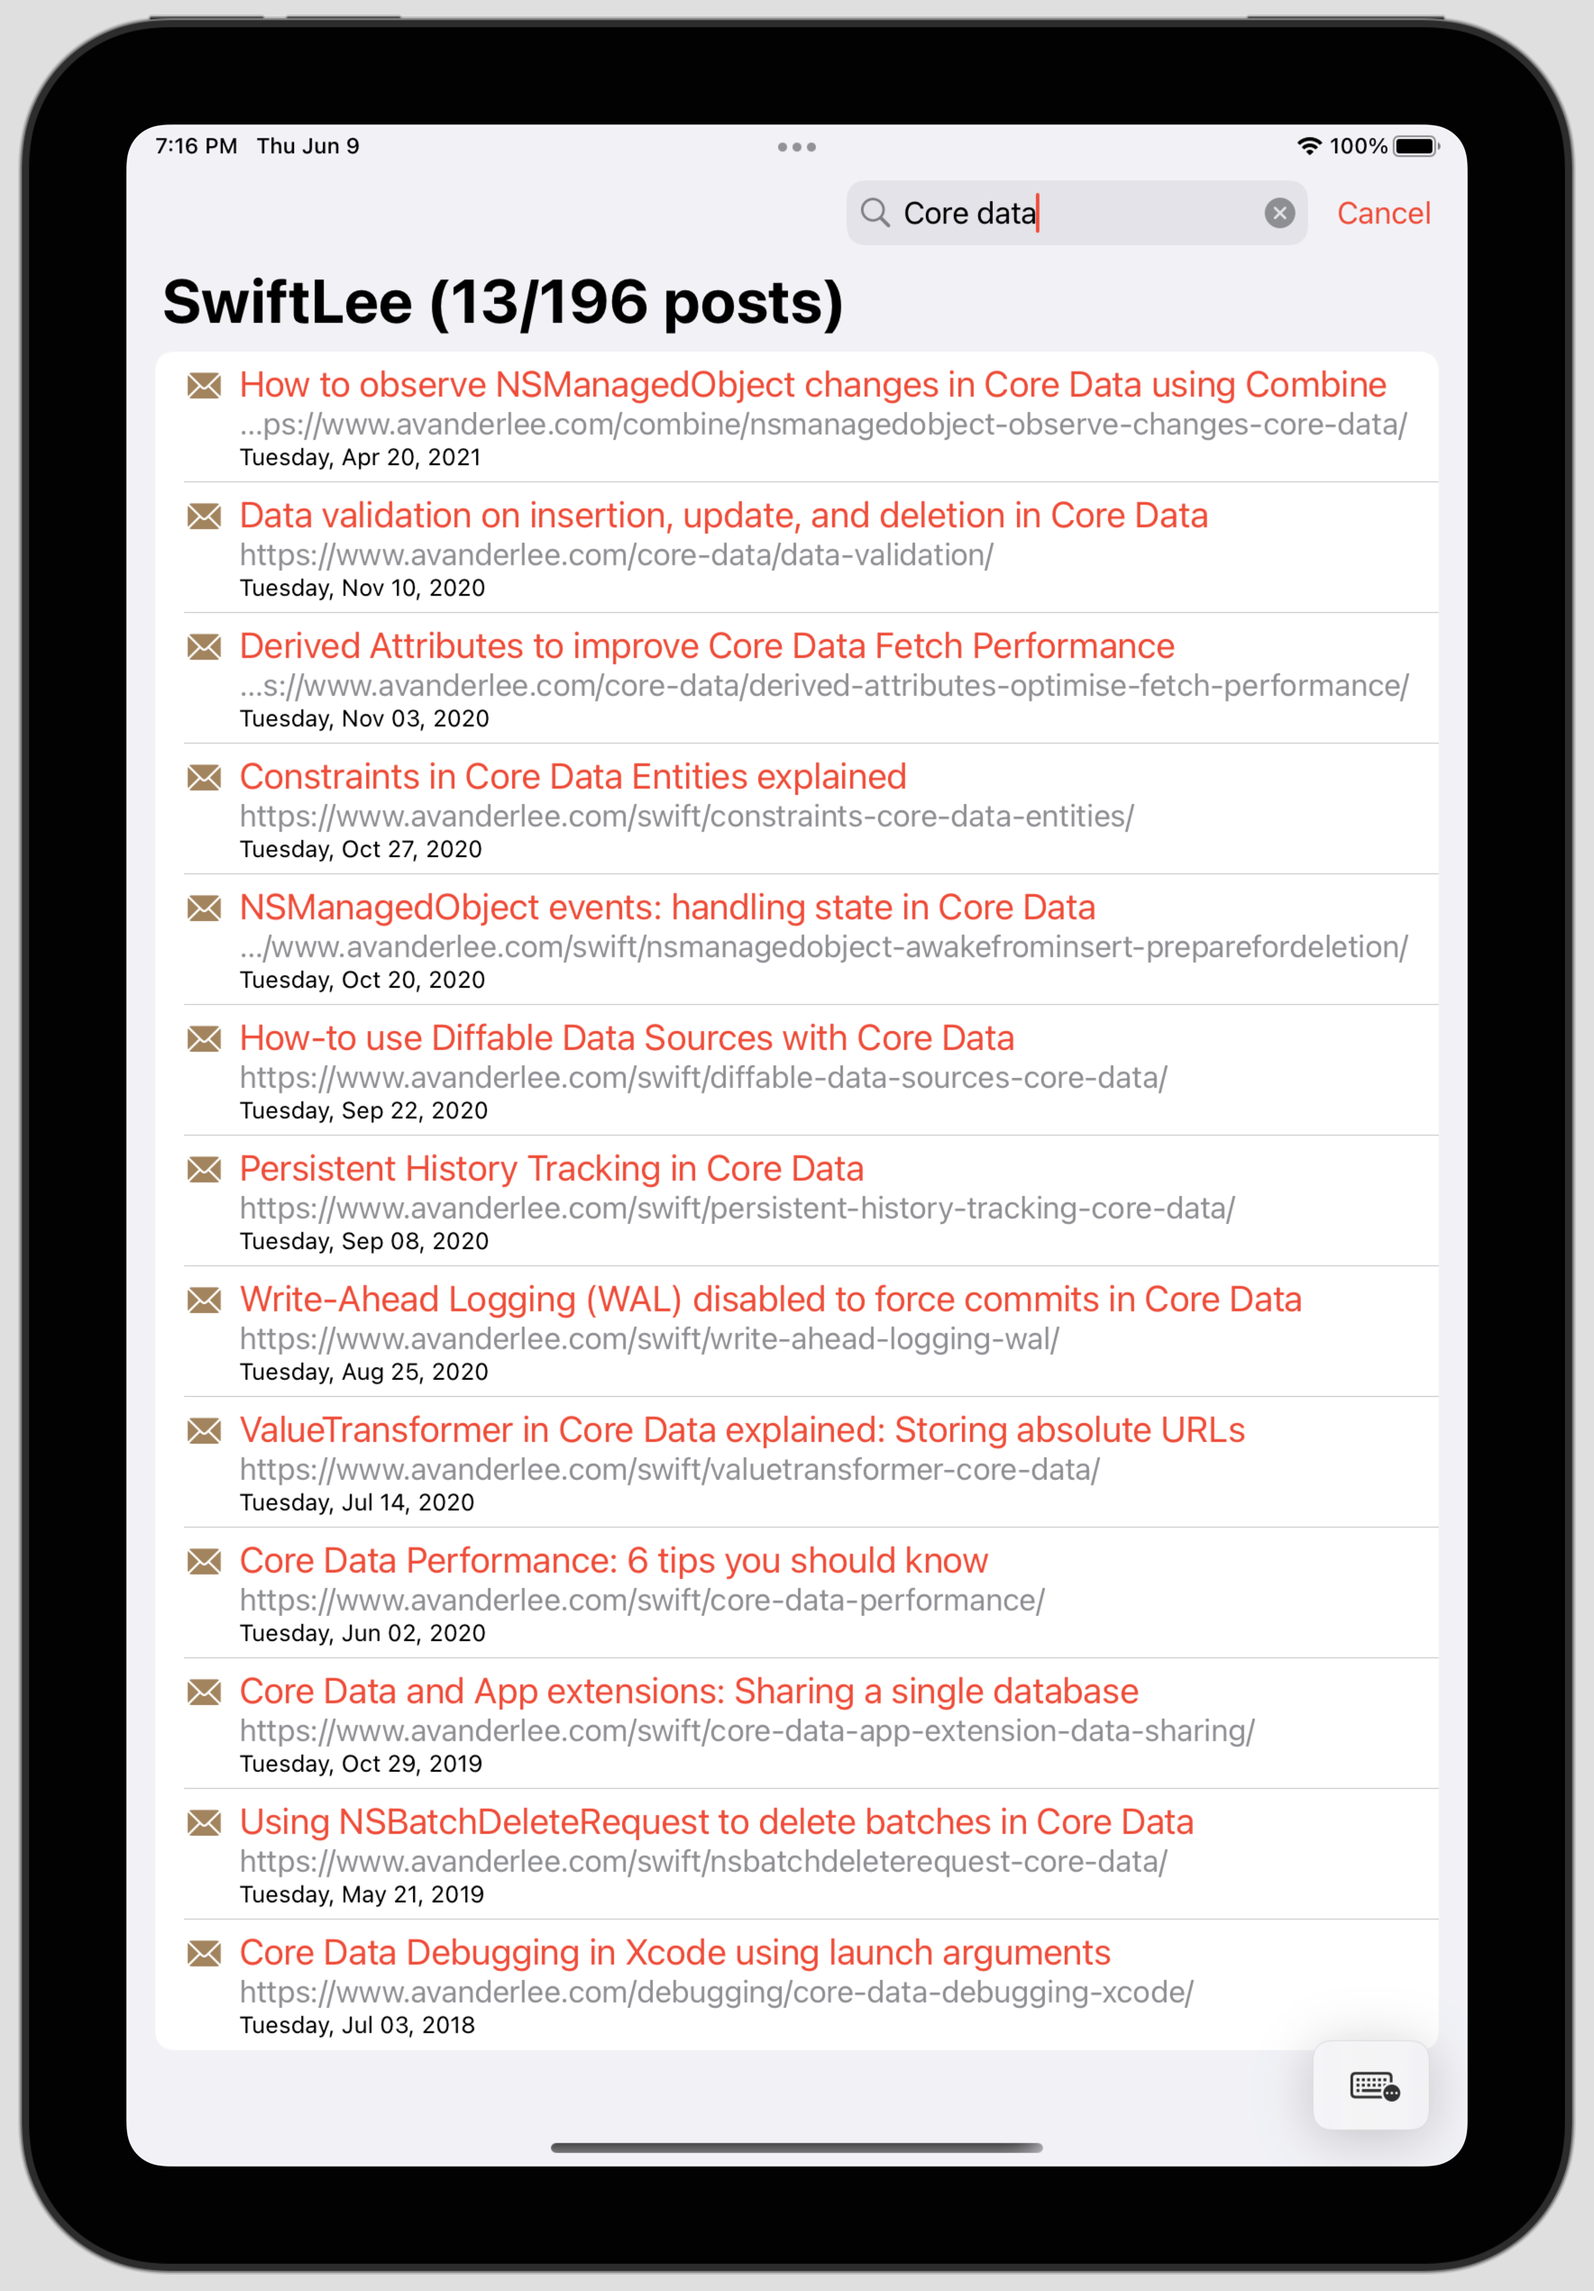
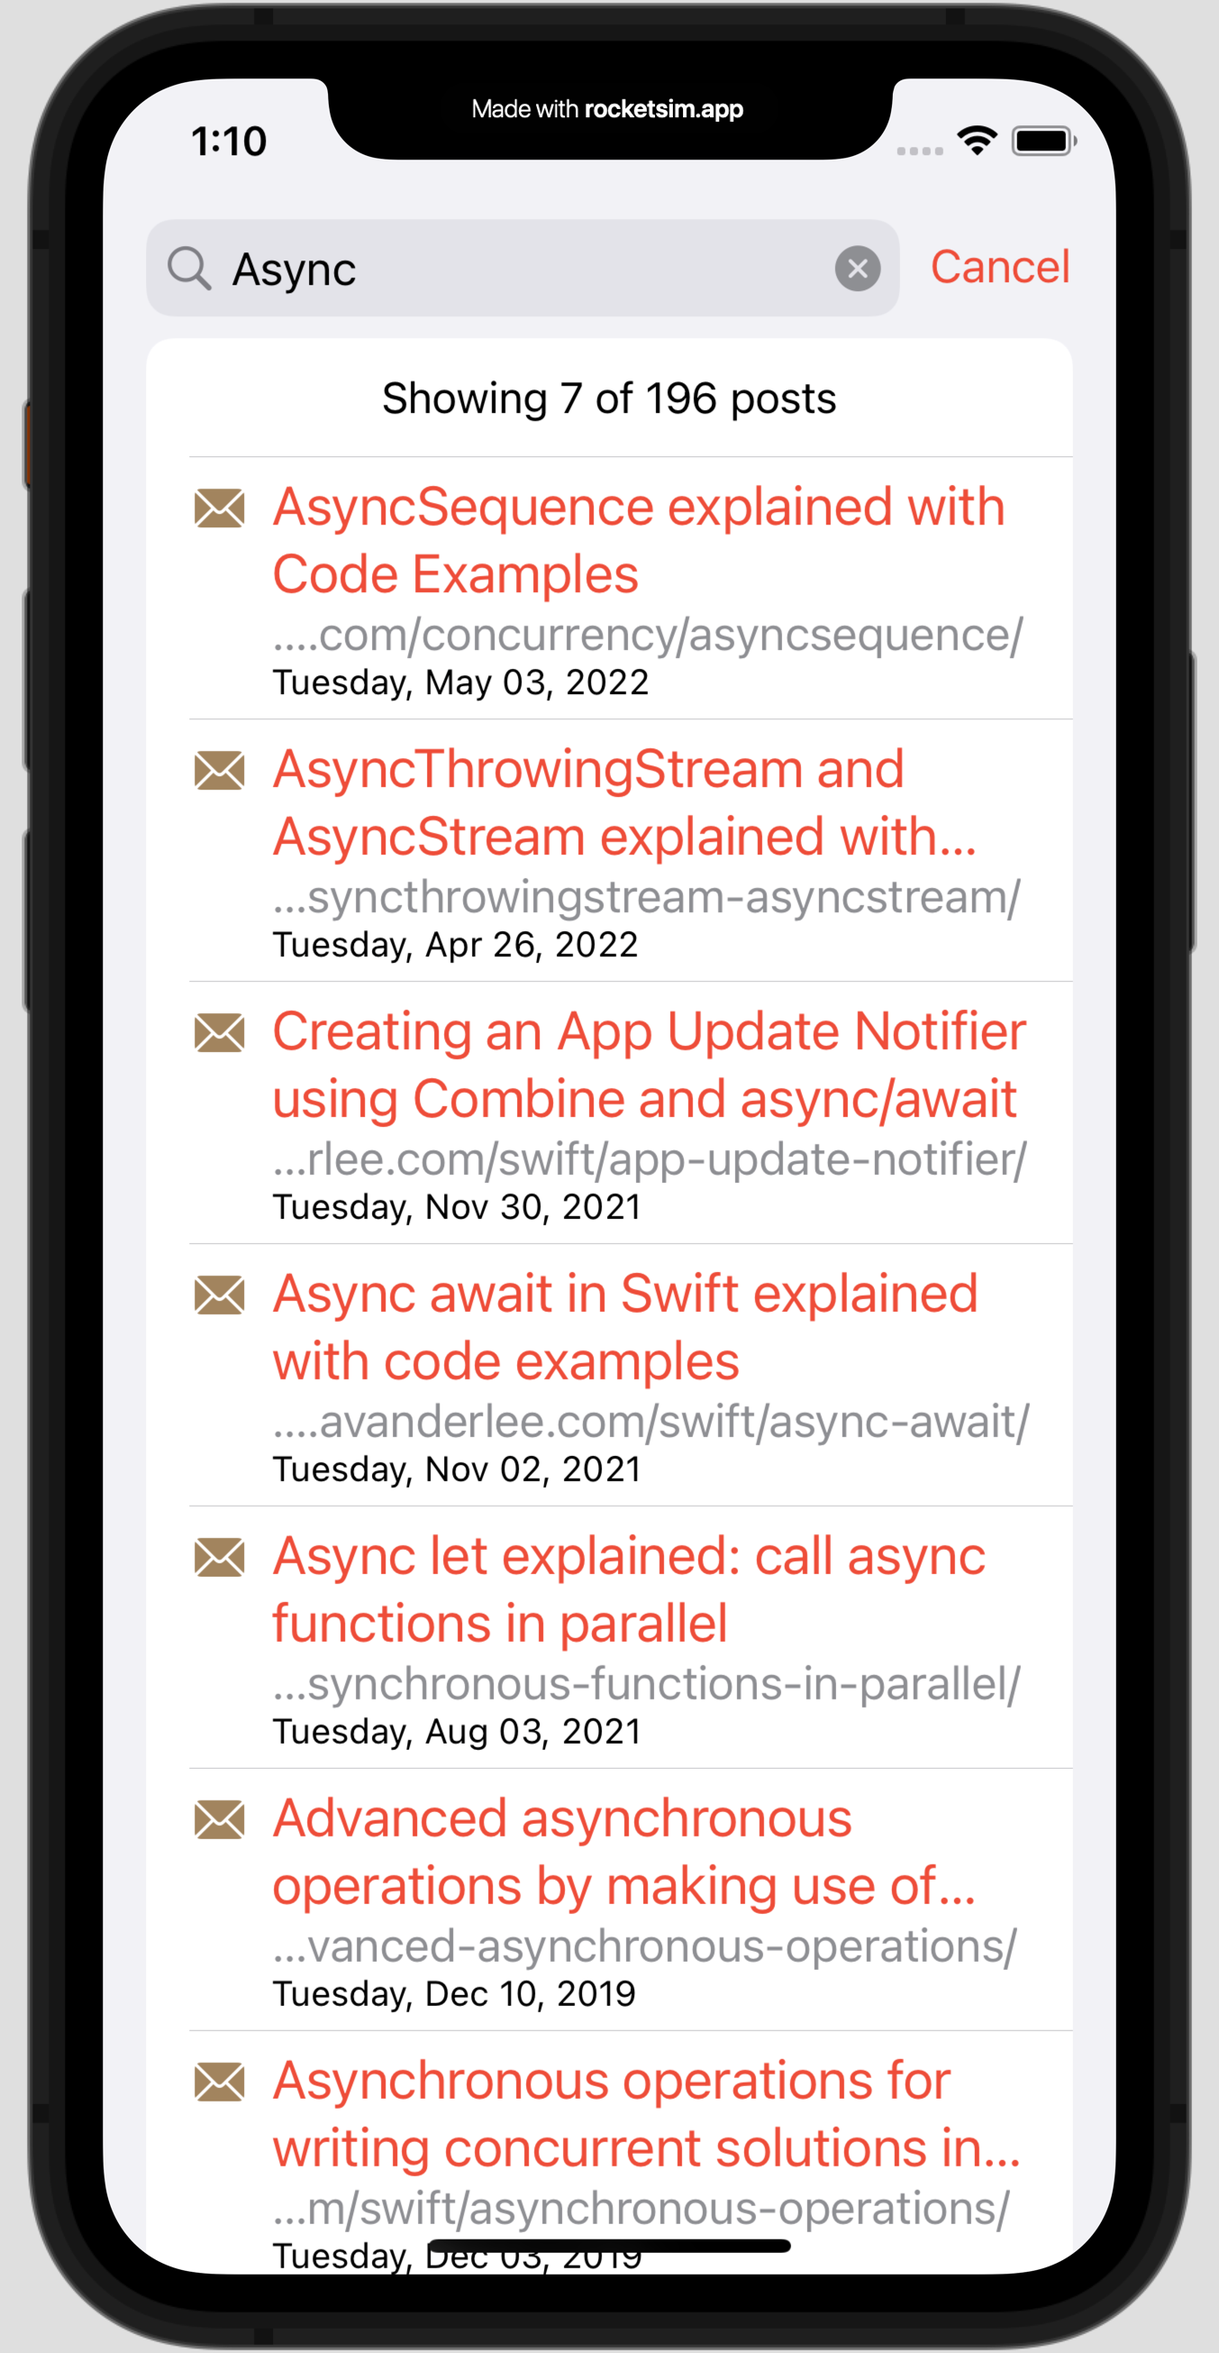
Moved "nn of mmm posts" out of Nav title

Changed region(s): [[0.0, 0.0, 0.9933, 1.0]]

diff --git a/Views/PostListView.swift b/Views/PostListView.swift
@@ -24,6 +24,13 @@ struct PostListView: View {
         VStack {
             NavigationView {
                 List {
+                    HStack {
+                        Spacer()
+                        Text("Showing \(searchResults.count) of \(blogPosts.count) " +
+                             "\(searchResults.count==1 ? "post" : "posts")")
+                            .font(.callout)
+                        Spacer()
+                    }
                     ForEach(searchResults) { blogPost in
                         HStack(alignment: .top) {
                             Image(systemName: "envelope.fill") // see also "envelope.open.fill"
@@ -47,7 +54,8 @@ struct PostListView: View {
                         }
                     }
                 }
-                .searchable(text: $searchText, prompt: "Title search")
+                .searchable(text: $searchText, placement: .navigationBarDrawer(displayMode: .always),
+                            prompt: "Title search")
                 .refreshable { }
                 .onAppear {
                     if testString == nil {
@@ -56,8 +64,7 @@ struct PostListView: View {
                         fillBlogPostsFromString(string: testString!)
                     }
                 }
-                .navigationTitle("SwiftLee (\(searchResults.count)/\(blogPosts.count) " +
-                                 "\(blogPosts.count==1 ? "post" : "posts"))") // fancy plural
+                .navigationTitle("SwiftLee")
             }
             .navigationViewStyle(StackNavigationViewStyle()) // avoids split screen on iPad
         }
